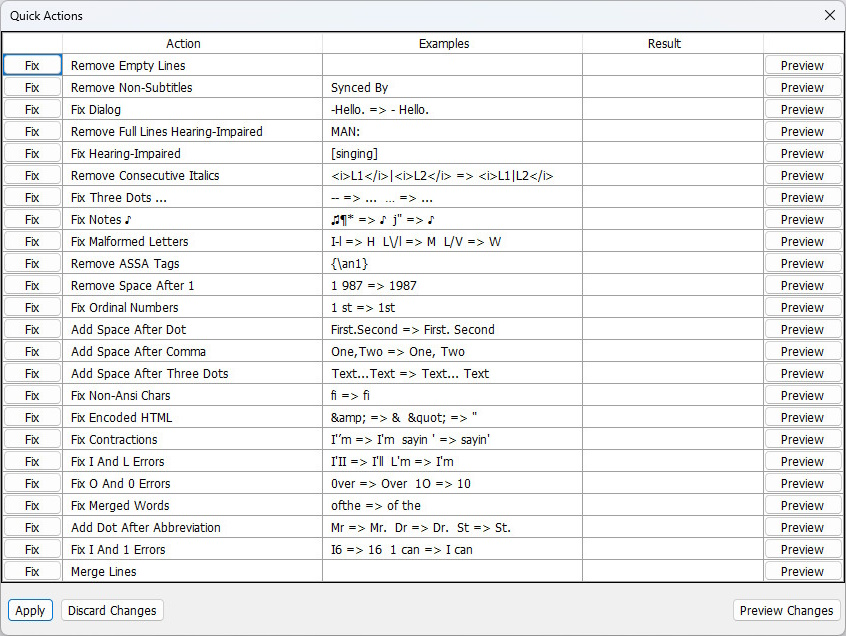
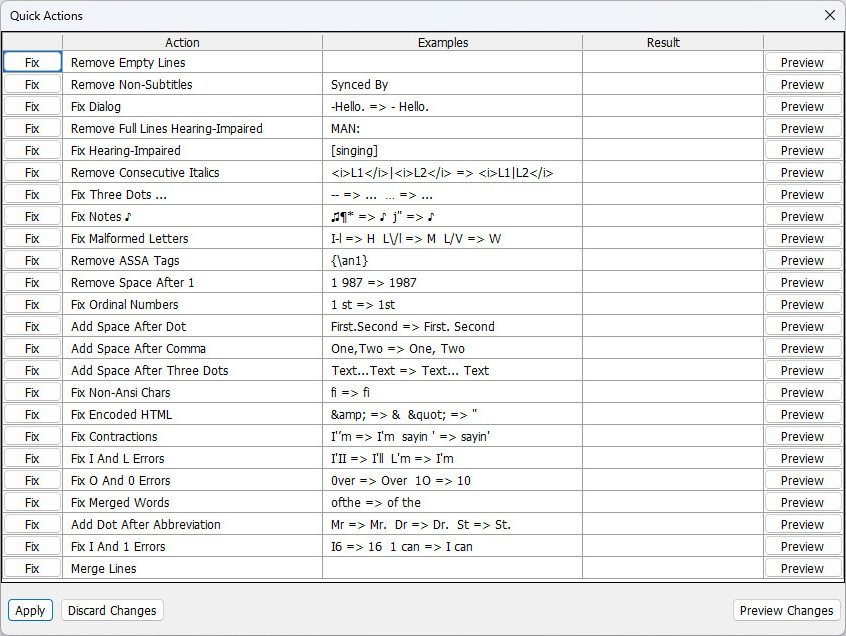
fix DataGridView header selection is colored

Changed region(s): [[0.0, 0.0597, 1.0, 0.9261]]

diff --git a/SubtitlesCleaner.Editor/SubtitlesCleanerEditorForm.cs b/SubtitlesCleaner.Editor/SubtitlesCleanerEditorForm.cs
@@ -27,6 +27,12 @@ namespace SubtitlesCleaner.Editor
             lstEditor.AutoGenerateColumns = false;
             lstErrors.AutoGenerateColumns = false;
 
+            lstEditor.EnableHeadersVisualStyles = false;
+            lstEditor.ColumnHeadersDefaultCellStyle.SelectionBackColor = lstEditor.ColumnHeadersDefaultCellStyle.BackColor;
+
+            lstErrors.EnableHeadersVisualStyles = false;
+            lstErrors.ColumnHeadersDefaultCellStyle.SelectionBackColor = lstErrors.ColumnHeadersDefaultCellStyle.BackColor;
+
             txtSubtitle.Init(lstEditor);
 
             ParseArgs(args);

diff --git a/SubtitlesCleaner.Editor/QuickActionsForm.cs b/SubtitlesCleaner.Editor/QuickActionsForm.cs
@@ -25,6 +25,9 @@ namespace SubtitlesCleaner.Editor
             this.subtitles = subtitles;
 
             lstQuickActions.AutoGenerateColumns = false;
+            lstQuickActions.EnableHeadersVisualStyles = false;
+            lstQuickActions.ColumnHeadersDefaultCellStyle.SelectionBackColor = lstQuickActions.ColumnHeadersDefaultCellStyle.BackColor;
+
             lstQuickActions.DataSource = new BindingList<QuickAction>(quickActions);
         }
 
